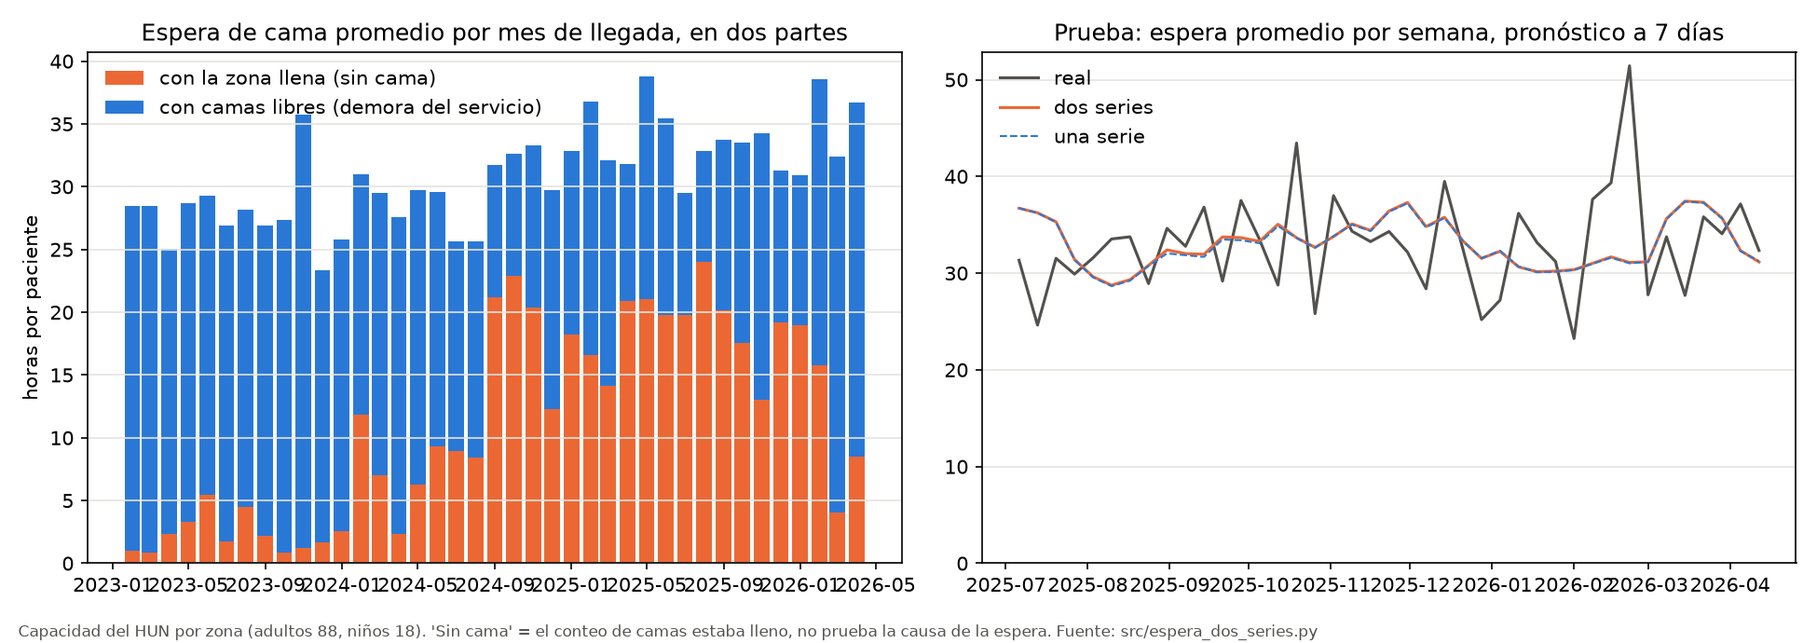
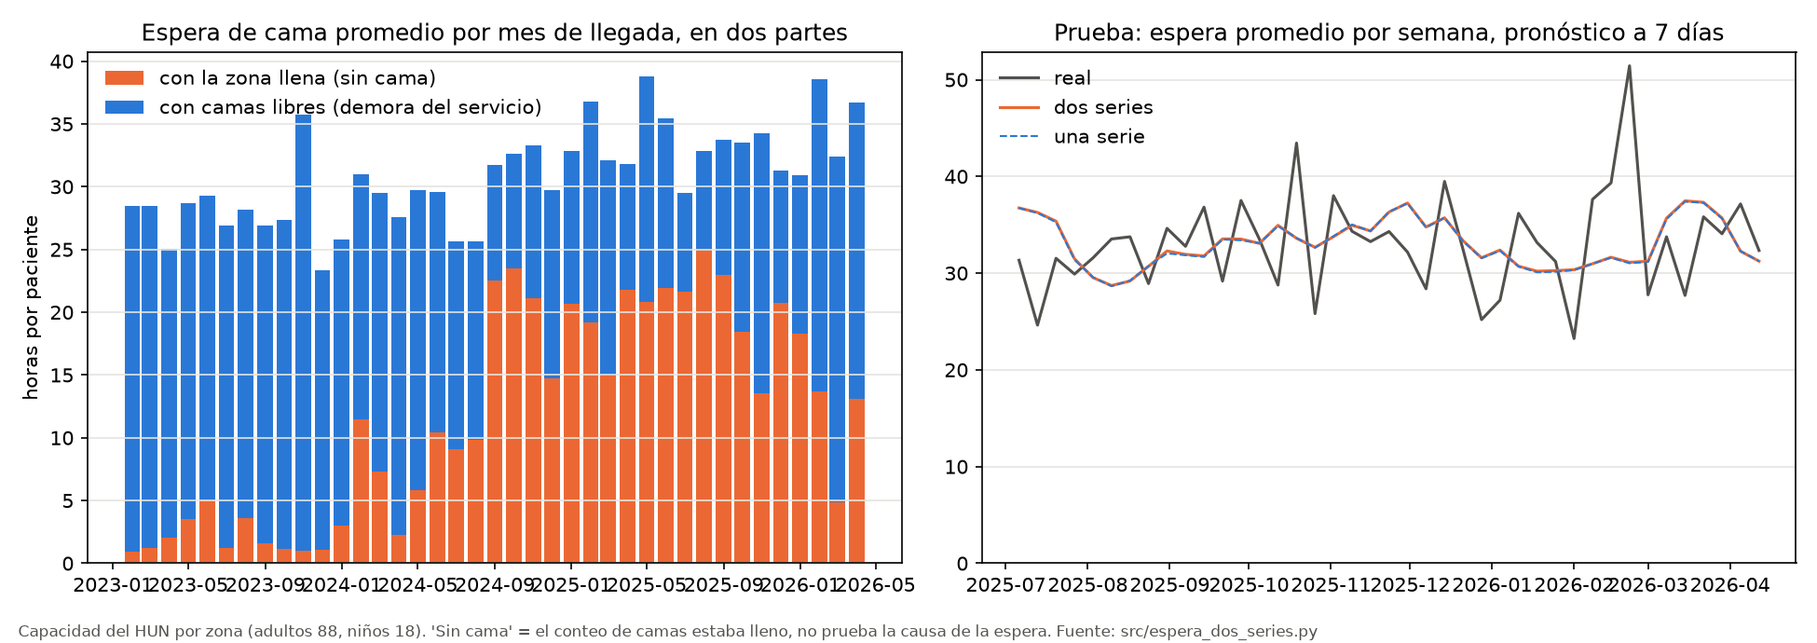
A6: recalcula todo con la persona real (P02 y P03)
Con la edad y el sexo de la persona real el estimador mejora: 8,9 % al llegar y 11,3 % a las 3 h reentrenado cada mes (antes 8,1 % y 10,3 %). Se actualizan todas las cifras, ejemplos y graficos de A6.

diff --git a/docs/estimador_tiempos.md b/docs/estimador_tiempos.md
@@ -1,18 +1,18 @@
-# A6 · Estimación del tiempo de espera de cama (7-nov-2026)
+# A6 · Estimación del tiempo de espera de cama (7 y 8-nov-2026)
 
 **Qué pide el instructivo (componente 3):** «modelos analíticos o predictivos que permitan estimar tiempos de atención». La pregunta concreta: **cuando un paciente espera cama, ¿cuánto le falta?**
 
 ## Resumen
 1. **La espera es individual.** Pacientes que llegan el mismo día o a la misma hora no esperan parecido. Por eso la ocupación del hospital o la cola casi no ayudan a estimarla, y lo que sirve es información de cada paciente.
 2. **El estimador es un modelo de tiempo restante.** Para un paciente que espera cama, da el rango de lo que le falta (percentiles 25, 50, 75 y 90) y la probabilidad de recibir cama en 6, 12 y 24 horas, y se recalcula a medida que pasa la espera. Usa el paciente, la hora del reloj, la ocupación, su historial de hospitalizaciones y su recorrido en urgencias, todo conocido en el momento. Se consulta con `estimar_tiempo_restante()`.
-3. **Funciona mejor que todo lo demás que probamos, pero el techo es bajo.** Reentrenado cada mes con más peso en lo reciente, que es como se debe usar porque el hospital cambió, mejora el rango 8,1 % al llegar y 9,8–10,3 % entre las 3 y las 6 horas de espera, frente a darle a todos el mismo rango. Sus percentiles aciertan en datos nuevos, y le gana con margen comprobado a las otras cinco alternativas.
+3. **Funciona mejor que todo lo demás que probamos, pero el techo es bajo.** Reentrenado cada mes con más peso en lo reciente, que es como se debe usar porque el hospital cambió, mejora el rango 8,9 % al llegar y 10,8–11,3 % entre las 3 y las 6 horas de espera, frente a darle a todos el mismo rango. Sus percentiles aciertan en datos nuevos, y le gana con margen comprobado a las otras cinco alternativas.
 4. **Lo que más decide cuándo llega la cama es la hora del reloj:** entre las 6 y las 12 h casi nadie recibe cama; las camas se asignan entre las 15 y las 17 h y entre las 20 y las 23 h.
 5. **Pensado para usarse cada día** (sección 3.2):
    - **Para el paciente:** responde en ventanas del día («esta tarde», «esta noche», «mañana en la tarde») con probabilidades que dicen la verdad.
-   - **Para la reunión de camas:** dice cuántos de los que esperan tendrán cama en 12 o 24 h, con un error en el mínimo que permite el azar y un rango que acierta el 86–88 % de los días.
+   - **Para la reunión de camas:** dice cuántos de los que esperan tendrán cama en 12 o 24 h, con un error en el mínimo que permite el azar y un rango que acierta el 87–88 % de los días.
    - **Para actuar antes:** a las 12 h de espera avisa quién seguirá sin cama a las 48 h.
    - **En el dashboard:** tiene su página (`dashboard/estimador.py`).
-6. **Lo que de verdad lo mejoraría es saber, al llegar, la gravedad y el servicio.** Los procedimientos de cada estancia muestran que el hospital da cama rápido a los graves (UCI: mediana 2,7 h) y hace esperar más a cirugía, urología y ortopedia (30–38 h). Si esa información se conociera al llegar, la mejora pasaría de 7,6 % a 15,8 %, y a 18,6 % sumando el diagnóstico (comparando modelos entrenados una sola vez). Es más que cualquier cambio de modelo, y es el argumento para registrar el triage y el servicio en la base.
+6. **Lo que de verdad lo mejoraría es saber, al llegar, la gravedad y el servicio.** Los procedimientos de cada estancia muestran que el hospital da cama rápido a los graves (UCI: mediana 2,7 h) y hace esperar más a cirugía, urología y ortopedia (30–38 h). Si esa información se conociera al llegar, la mejora pasaría de 8,4 % a 16,9 %, y a 20,0 % sumando el diagnóstico (comparando modelos entrenados una sola vez). Es más que cualquier cambio de modelo, y es el argumento para registrar el triage y el servicio en la base.
 
 ---
 
@@ -23,7 +23,7 @@ Se usan las estancias únicas del periodo confiable, del 1-feb-2023 al 9-abr-202
 
 **1.2 La hora del reloj manda.** Para un paciente que sigue esperando, la probabilidad de recibir cama en la hora siguiente es:
 - ~1 % entre las 6 y las 12 h;
-- 6–8 % entre las 15 y las 17 h;
+- 6–9 % entre las 15 y las 17 h;
 - 1 % a las 18 h;
 - 9–11 % entre las 20 y las 22 h.
 
@@ -70,7 +70,7 @@ Código: `src/estimador_tiempo_restante.py` (consulta) y `src/comparar_estimador
 
 **Un modelo por momento de la espera.** El recorrido cambia mientras el paciente espera. Por eso hay un modelo para cada momento (al llegar, a las 2, 4, 6 y 9 h), entrenado con quienes seguían esperando en ese momento y con lo que se sabía entonces. Esta técnica se llama «landmark». Desde las 12 h de espera el recorrido ya no suma, y se usa un solo modelo con el historial. El corte de 12 h se eligió mirando la prueba.
 
-**Qué no usa, y por qué.** No usa la cola de pacientes esperando cama: contarla exige saber quién se hospitalizará, y además no mejora nada (6,5 % con cola frente a 6,6 % sin ella al llegar).
+**Qué no usa, y por qué.** No usa la cola de pacientes esperando cama: contarla exige saber quién se hospitalizará, y además empeora la estimación (al llegar, 6,2 % con cola frente a 7,0 % sin ella).
 
 **Cómo se consulta.**
 ```python
@@ -90,37 +90,37 @@ estimar_tiempo_restante(edad=67, sexo="Mujer", tipo_visita="Urgencias", horas_es
 
 | Paciente | Faltan: p25 / mediana / p75 / p90 | Prob. de cama en 6 / 12 / 24 h |
 |---|---|---|
-| Mujer de 67 años, urgencias, recién llegada a las 9:00, sin historial | 11,5 / 32,5 / 60,2 / 91,8 h | 15 / 26 / 41 % |
-| La misma, con 2 hospitalizaciones previas (la última: 60 h de espera, 200 h de estancia) | 13,7 / 36,9 / 60,7 / 84,7 h | 7 / 18 / 32 % |
-| La misma sin historial, 6 h después: una etapa cerrada y una abierta | 14,4 / 31,7 / 59,7 / 102,9 h | 12 / 24 / 30 % |
-| La misma sin historial, 6 h después: tres etapas abiertas | 3,9 / 6,8 / 24,3 / 48,5 h | 41 / 70 / 74 % |
-| Niña de 8 años, urgencias, recién llegada a las 22:00 | 3,9 / 12,2 / 23,4 / 47,3 h | 34 / 50 / 77 % |
+| Mujer de 67 años, urgencias, recién llegada a las 9:00, sin historial | 11,8 / 34,4 / 60,6 / 104,2 h | 14 / 25 / 39 % |
+| La misma, con 2 hospitalizaciones previas (la última: 60 h de espera, 200 h de estancia) | 17,5 / 53,9 / 79,9 / 131,7 h | 7 / 16 / 27 % |
+| La misma sin historial, 6 h después: una etapa cerrada y una abierta | 15,7 / 31,7 / 59,3 / 102,9 h | 11 / 23 / 30 % |
+| La misma sin historial, 6 h después: tres etapas abiertas | 5,8 / 11,6 / 32,3 / 71,7 h | 27 / 50 / 58 % |
+| Niña de 8 años, urgencias, recién llegada a las 22:00 | 4,4 / 12,6 / 23,5 / 47,4 h | 33 / 48 / 76 % |
 
 ---
 
 ## 3. Qué tan bien funciona
 **La prueba.** Todo se entrenó con llegadas de feb-2023 a jun-2025 y se probó con las 5.430 estancias de jul-2025 a 9-abr-2026, que ningún modelo había visto. Se mide la **mejora frente al rango general** (darle a todos los mismos percentiles), con la pérdida de cuantiles, que es el error estándar para percentiles. Los intervalos del 95 % salen de un bootstrap por semanas (1.000 repeticiones), porque los pacientes de una misma semana se parecen entre sí.
 
-**Cómo mejora al sumar información** (lo que le falta a quien sigue esperando). Todos los modelos de esta tabla se entrenaron una sola vez, para compararlos en igualdad de condiciones. Reentrenado cada mes con más peso en lo reciente, el estimador final gana entre 0,5 y 0,8 puntos más (sección 3.1).
+**Cómo mejora al sumar información** (lo que le falta a quien sigue esperando). Todos los modelos de esta tabla se entrenaron una sola vez, para compararlos en igualdad de condiciones. Reentrenado cada mes con más peso en lo reciente, el estimador final gana entre 0,5 y 1,1 puntos más (sección 3.1).
 
 | Horas esperando | Tabla de perfiles | Modelo sin historial ni recorrido | + historial | **Estimador final** (IC 95 %) |
 |---|---|---|---|---|
-| 0 (al llegar) | 5,8 % | 6,7 % | 7,5 % | **7,6 % (6,7 a 8,5)** |
-| 3 h | 6,2 % | 7,4 % | 8,2 % | **9,5 % (8,6 a 10,4)** |
-| 6 h | 5,4 % | 7,0 % | 7,6 % | **9,2 % (8,4 a 10,1)** |
-| 12 h | 3,8 % | 6,1 % | 6,5 % | **6,5 % (5,2 a 7,6)** |
-| 24 h | 2,2 % | 5,0 % | 5,2 % | **5,2 % (3,5 a 6,7)** |
-| 48 h | −0,8 % | 1,8 % | 1,8 % | **1,8 % (0,1 a 3,3)** |
+| 0 (al llegar) | 6,4 % | 7,0 % | 8,0 % | **8,4 % (7,5 a 9,3)** |
+| 3 h | 7,1 % | 8,0 % | 8,7 % | **10,4 % (9,4 a 11,3)** |
+| 6 h | 6,2 % | 7,7 % | 8,3 % | **9,7 % (8,8 a 10,7)** |
+| 12 h | 4,1 % | 6,7 % | 7,1 % | **7,1 % (5,5 a 8,5)** |
+| 24 h | 2,6 % | 4,9 % | 5,3 % | **5,3 % (3,5 a 7,0)** |
+| 48 h | −1,3 % | 2,0 % | 1,5 % | **1,5 % (−0,5 a 3,3)** |
 
-**¿Aciertan los percentiles?** Lo ideal es que el 25 / 50 / 75 / 90 % de los casos nuevos quede por debajo de cada uno. Con el estimador final quedan 26,5 / 51,7 / 74,0 / 87,8 % al llegar y 25,9 / 49,3 / 71,9 / 87,2 % a las 6 h. El p90 queda algo corto (87–88 %) porque los peores casos siguen empeorando (`HALLAZGOS.md` 4.3); conviene leerlo como un piso.
+**¿Aciertan los percentiles?** Lo ideal es que el 25 / 50 / 75 / 90 % de los casos nuevos quede por debajo de cada uno. Con el estimador final quedan 26,5 / 51,8 / 74,2 / 87,7 % al llegar y 25,6 / 49,1 / 72,2 / 87,3 % a las 6 h. El p90 queda algo corto (87–88 %) porque los peores casos siguen empeorando (`HALLAZGOS.md` 4.3); conviene leerlo como un piso.
 
 **Cómo leerlo:**
-- **Contra la tabla de perfiles, la ventaja es real en todos los momentos:** el intervalo de la diferencia nunca incluye el 0 (+1,3 a +2,6 puntos al llegar; +3,3 a +4,9 a las 6 h).
-- **Contra el modelo de cuantiles al llegar,** que era el segundo mejor, la ventaja también es real: +0,8 a +1,8 puntos.
-- **El historial suma desde la llegada, y el recorrido en las primeras horas** (probado a las 3 y a las 6 h). Desde las 12 h, la espera depende de otras cosas.
+- **Contra la tabla de perfiles, la ventaja es real en todos los momentos:** el intervalo de la diferencia nunca incluye el 0 (+1,4 a +2,8 puntos al llegar; +3,0 a +4,7 a las 6 h).
+- **Contra el modelo de cuantiles al llegar,** que era el segundo mejor, la ventaja también es real: +0,8 a +2,1 puntos.
+- **El historial suma desde la llegada, y el recorrido en las primeras horas** (probado a las 3 y a las 6 h). Desde las 12 h, la espera depende de otras cosas; a las 48 h ningún método mejora con claridad al rango general.
 - **El techo es bajo:** el error de la mediana sigue siendo de unas 24 h al llegar.
 
-**Agosto y septiembre de 2025.** Según el equipo, el HUN tuvo sobredemanda porque los hospitales cercanos fueron intervenidos por el Estado y quedó como la única opción de la zona. En los datos se ve poco: un 6–7 % más de llegadas que en los mismos meses de 2024, con ingresos a cama y espera mediana normales. Evaluado aparte, el estimador mejora 7,2 % en esos meses y 7,7 % en el resto. El resultado se sostiene.
+**Agosto y septiembre de 2025.** Según el equipo, el HUN tuvo sobredemanda porque los hospitales cercanos fueron intervenidos por el Estado y quedó como la única opción de la zona. En los datos se ve poco: un 6–7 % más de llegadas que en los mismos meses de 2024, con ingresos a cama y espera mediana normales. Evaluado aparte, el estimador mejora 8,4 % en esos meses y 8,4 % en el resto. El resultado se sostiene.
 
 ### 3.1 ¿Sirve estimar el presente con datos de 2023 a 2025?
 Código: `src/ventana_entrenamiento.py`. El hospital cambió en el periodo: la mediana de la espera se mantuvo, pero los peores casos empeoraron.
@@ -136,21 +136,21 @@ Un modelo entrenado sobre todo con 2023 y 2024 aprende un hospital que ya no exi
 
 | Forma de entrenar | Al llegar | 3 h | 6 h | 12 h | 24 h |
 |---|---|---|---|---|---|
-| Todo feb-2023 a jun-2025 (modelo fijo) | 7,6 % | 9,5 % | 9,2 % | 6,5 % | 5,2 % |
-| Solo los últimos 12 meses | 7,7 % | 9,6 % | 9,5 % | 5,9 % | 4,7 % |
-| Solo los últimos 6 meses | 7,0 % | 9,1 % | 8,4 % | 6,6 % | 5,5 % |
-| Todo, con más peso en lo reciente (vida media de 6 meses) | 7,6 % | 9,6 % | 9,6 % | 6,6 % | 5,1 % |
-| Reentrenado cada mes con todo lo anterior | 8,0 % | 10,0 % | 9,5 % | 6,9 % | 5,8 % |
-| **Reentrenado cada mes, con más peso en lo reciente** | **8,1 %** | **10,3 %** | **9,8 %** | **7,0 %** | **5,9 %** |
+| Todo feb-2023 a jun-2025 (modelo fijo) | 8,4 % | 10,4 % | 9,7 % | 7,1 % | 5,3 % |
+| Solo los últimos 12 meses | 8,3 % | 10,3 % | 9,8 % | 6,3 % | 4,7 % |
+| Solo los últimos 6 meses | 8,4 % | 9,8 % | 9,2 % | 7,0 % | 5,9 % |
+| Todo, con más peso en lo reciente (vida media de 6 meses) | 8,6 % | 10,6 % | 9,9 % | 7,0 % | 5,3 % |
+| Reentrenado cada mes con todo lo anterior | 8,9 % | 10,9 % | 10,2 % | 7,5 % | 6,0 % |
+| **Reentrenado cada mes, con más peso en lo reciente** | **8,9 %** | **11,3 %** | **10,8 %** | **7,6 %** | **6,3 %** |
 
 En el reentrenamiento mensual, cada mes de la prueba se estimó con un modelo entrenado solo con lo que se sabía antes de empezar ese mes. Es decir, con las estancias que ya tenían cama y que llegaron al menos 14 días antes.
 
 **Lectura:**
-1. **Sí, entrenar con lo viejo era un problema, pero pequeño.** Reentrenar cada mes con más peso en lo reciente es lo mejor en todos los momentos: mejora entre 0,5 y 0,8 puntos frente al modelo fijo. La diferencia es real al llegar, a las 3 h y a las 6 h (el intervalo de la diferencia no incluye el 0: +0,1 a +1,0 % al llegar, +0,4 a +1,5 % a las 3 h). Además, el p90 acierta mejor: 88,9 % en vez de 87,8 % al llegar.
+1. **Sí, entrenar con lo viejo era un problema, pero pequeño.** Reentrenar cada mes con más peso en lo reciente es lo mejor en todos los momentos: mejora entre 0,5 y 1,1 puntos frente al modelo fijo. La diferencia es real a las 3, 6 y 24 h (el intervalo de la diferencia no incluye el 0: +0,3 a +1,6 % a las 3 h, +0,6 a +2,0 % a las 6 h) y queda en el límite al llegar (+0,0 a +1,1 %). Además, el p90 acierta mejor: 89,0 % en vez de 87,7 % al llegar.
 2. **Lo que más ayuda es incluir los meses nuevos.** Darle más peso a lo reciente sin reentrenar casi no cambia nada. Usar solo los últimos meses empeora, porque se pierden demasiados datos.
 3. **Por eso el estimador final se entrena con todo el historial y más peso en lo reciente,** y debe reentrenarse cada mes.
 
-**Edad y sexo corregidos.** Las cifras de esta sección ya usan la edad y el sexo de la persona real en las 14.126 estancias que trae `procedimientos_por_estancia.csv` (difieren de los nuestros en el 4 % de esas estancias en la edad y en el 2 % en el sexo). Con la corrección, los resultados prácticamente no cambian.
+**Edad y sexo de la persona real (8-nov).** Todas las cifras de este documento usan la tabla de episodios rehecha con `P02_persona_de_los_diagnosticos.csv` y `P03_persona_de_los_laboratorios.csv` (lote 4 de `src/auditoria_bd.py`, `CLAUDE.md` 4.10): la persona real se identificó en 16.384 estancias y el registro conservado es el suyo en el 99,6 % de ellas. Frente a la versión anterior, el 5,4 % de las estancias cambió de grupo de edad y el 3,2 % de sexo. La espera no cambia (mediana 18,5 h), pero **el estimador mejora**: al llegar pasa de 7,6 % a 8,4 % (modelo fijo) y a las 3 h de 9,5 % a 10,4 %. Tener los datos del paciente bien corregidos importa.
 
 ---
 
@@ -161,34 +161,34 @@ Código: `src/utilidad_estimador.py`. La precisión para un paciente tiene un te
 
 | | Al llegar | A las 6 h de espera |
 |---|---|---|
-| La ventana real está entre las 2 más probables | **45,5 %** (sin modelo: 36,9 %) | **43,3 %** (sin modelo: 34,3 %) |
-| La ventana con fecha más probable acierta | 25,7 % (sin modelo: 21,6 %) | 20,8 % (sin modelo: 17,4 %) |
-| Error de las probabilidades (Brier, menor es mejor) | 0,837 (sin modelo: 0,870; −3,8 %) | 0,838 (sin modelo: 0,875; −4,3 %) |
+| La ventana real está entre las 2 más probables | **45,5 %** (sin modelo: 36,9 %) | **44,0 %** (sin modelo: 34,3 %) |
+| La ventana con fecha más probable acierta | 26,2 % (sin modelo: 21,6 %) | 20,7 % (sin modelo: 17,4 %) |
+| Error de las probabilidades (Brier, menor es mejor) | 0,833 (sin modelo: 0,870; −4,2 %) | 0,835 (sin modelo: 0,875; −4,6 %) |
 
-«Sin modelo» es la distribución histórica de la ventana según la hora del reloj. Hay 12 ventanas posibles, así que acertar la exacta es difícil. Lo que más importa para comunicar es que las probabilidades **dicen la verdad**: cuando el estimador dice 7 %, pasa el 7 %; cuando dice 12 %, pasa el 11 %; cuando dice 24 %, pasa el 27 %. En las probabilidades más altas queda algo corto: dice 34 % y pasa el 42 %. El 14 % de los pacientes recibe la cama después de 3 días.
+«Sin modelo» es la distribución histórica de la ventana según la hora del reloj. Hay 12 ventanas posibles, así que acertar la exacta es difícil. Lo que más importa para comunicar es que las probabilidades **dicen la verdad**: cuando el estimador dice 7 %, pasa el 7 %; cuando dice 12 %, pasa el 11 %; cuando dice 24 %, pasa el 28 %. En las probabilidades más altas queda algo corto: dice 34 % y pasa el 42 %. El 14 % de los pacientes recibe la cama después de 3 días.
 
 **2. Para la reunión de camas: de los que esperan ahora, ¿cuántos tendrán cama en 12 o 24 horas?** Cada día a las 7:00 y a las 13:00, el estimador suma las probabilidades de los pacientes en espera.
 
 | Momento y plazo | En espera | Reciben cama | Error por día | Mínimo posible por azar | Sin modelo | Rango del 80 % acierta | Error por semana |
 |---|---|---|---|---|---|---|---|
-| 7:00, en 12 h | 23,6 | 5,1 | 1,9 | 1,9 | 2,1 | 85,8 % | 20,4 % |
-| 7:00, en 24 h | 23,6 | 10,5 | 2,6 | 2,6 | 2,8 | 85,5 % | 12,4 % |
-| 13:00, en 12 h | 28,9 | 11,6 | 2,6 | 2,7 | 2,7 | 87,6 % | 10,6 % |
-| 13:00, en 24 h | 28,9 | 12,9 | 2,7 | 2,9 | 2,8 | 87,6 % | 9,6 % |
+| 7:00, en 12 h | 23,6 | 5,1 | 1,8 | 1,9 | 2,1 | 87,9 % | 18,1 % |
+| 7:00, en 24 h | 23,6 | 10,5 | 2,6 | 2,6 | 2,8 | 87,2 % | 11,6 % |
+| 13:00, en 12 h | 28,9 | 11,6 | 2,6 | 2,7 | 2,7 | 88,3 % | 10,3 % |
+| 13:00, en 24 h | 28,9 | 12,9 | 2,7 | 2,9 | 2,8 | 87,9 % | 9,3 % |
 
-**El error está en el mínimo que permite el azar.** Cuántos pacientes reciben cama en unas horas es un conteo pequeño con ruido inevitable, como contar caras al lanzar monedas. El «mínimo posible» es el error que tendría hasta un estimador perfecto (distribución de Poisson), y el estimador lo alcanza. Por eso la referencia histórica, que es la cantidad en espera por la fracción que suele recibir cama a esa hora, queda casi igual. Lo útil es el **rango**: con la distribución de Poisson del estimado, el rango del 80 % acierta el 86–88 % de los días. Una banda que supusiera pacientes independientes acertaba solo el 64–73 %, porque las camas se asignan en tandas. Por semana el error baja a 10–20 %, pero el rango semanal queda algo angosto: acierta el 67–77 % de las semanas en vez del 80 %, porque hay semanas enteras más rápidas o más lentas.
+**El error está en el mínimo que permite el azar.** Cuántos pacientes reciben cama en unas horas es un conteo pequeño con ruido inevitable, como contar caras al lanzar monedas. El «mínimo posible» es el error que tendría hasta un estimador perfecto (distribución de Poisson), y el estimador lo alcanza. Por eso la referencia histórica, que es la cantidad en espera por la fracción que suele recibir cama a esa hora, queda casi igual. Lo útil es el **rango**: con la distribución de Poisson del estimado, el rango del 80 % acierta el 87–88 % de los días. Una banda que supusiera pacientes independientes acertaba solo el 64–73 %, porque las camas se asignan en tandas. Por semana el error baja a 9–18 %, pero el rango semanal queda algo angosto: acierta el 67–80 % de las semanas en vez del 80 %, porque hay semanas enteras más rápidas o más lentas.
 
-**3. Para actuar antes: ¿quién seguirá sin cama a las 48 h?** A las 12 h de espera, la probabilidad de seguir sin cama a las 48 h (AUC 0,67):
+**3. Para actuar antes: ¿quién seguirá sin cama a las 48 h?** A las 12 h de espera, la probabilidad de seguir sin cama a las 48 h (AUC 0,68):
 
 | Regla | Alertas por día | Acierta | Detecta |
 |---|---|---|---|
 | Sin modelo: todos los que llevan 12 h | 11,1 | 38,6 % | 100 % |
-| Probabilidad ≥ 30 % | 7,4 | 46,9 % | 81,1 % |
-| **Probabilidad ≥ 40 %** | **3,8** | **53,8 %** | 47,3 % |
-| Probabilidad ≥ 50 % | 0,9 | 59,4 % | 12,3 % |
+| Probabilidad ≥ 30 % | 7,0 | 48,2 % | 79,5 % |
+| **Probabilidad ≥ 40 %** | **4,1** | **53,6 %** | 51,7 % |
+| Probabilidad ≥ 50 % | 1,3 | 59,5 % | 17,9 % |
 | Sin modelo: todos los que llevan 24 h (12 h más tarde) | 8,1 | 52,9 % | 100 % |
 
-**Lectura:** con un corte de 40 %, el estimador da 3,8 alertas diarias a las 12 h y acierta tanto como esperar a las 24 h y alertar a todos (54 % frente a 53 %), pero con **12 horas más de margen** y la mitad de alertas. A cambio, detecta solo la mitad de los que terminarán esperando más de 48 h. Complementa la alerta C de `src/alertas.py` (a las 48 h de espera), que avisa más tarde y acierta más.
+**Lectura:** con un corte de 40 %, el estimador da 4,1 alertas diarias a las 12 h y acierta tanto como esperar a las 24 h y alertar a todos (54 % frente a 53 %), pero con **12 horas más de margen** y la mitad de alertas. A cambio, detecta solo a la mitad (52 %) de los que terminarán esperando más de 48 h. Complementa la alerta C de `src/alertas.py` (a las 48 h de espera), que avisa más tarde y acierta más.
 
 **4. En el dashboard.** `dashboard/estimador.py` reúne todo en una página. Se describe al paciente (edad, sexo, tipo de visita, horas de espera y, si se sabe, su hospitalización anterior y sus etapas en urgencias) y muestra:
 - la ventana más probable y el gráfico de ventanas con la acumulada;
@@ -206,28 +206,28 @@ Código: `src/procedimientos_escenario.py` (procedimientos) y `src/triage_aproxi
 
 | Horas esperando | Sin procedimientos | + gravedad | + servicio | + gravedad y servicio | + diagnóstico | **+ todo** |
 |---|---|---|---|---|---|---|
-| Al llegar | 7,6 % | 11,7 % | 11,5 % | 15,8 % | 12,5 % | **18,6 % (17,5 a 19,8)** |
-| 3 h | 9,5 % | 12,0 % | 13,0 % | 15,0 % | 12,3 % | **16,9 %** |
-| 6 h | 9,2 % | 11,2 % | 11,9 % | 13,6 % | 12,1 % | **15,3 %** |
-| 12 h | 6,5 % | 9,1 % | 8,9 % | 11,2 % | 9,4 % | **12,3 %** |
-| 24 h | 5,2 % | 8,1 % | 7,1 % | 9,6 % | 7,3 % | **9,4 %** |
+| Al llegar | 8,4 % | 12,8 % | 12,7 % | 16,9 % | 14,1 % | **20,0 % (18,8 a 21,1)** |
+| 3 h | 10,4 % | 12,9 % | 13,7 % | 15,9 % | 13,4 % | **17,9 %** |
+| 6 h | 9,7 % | 11,9 % | 12,8 % | 14,5 % | 12,6 % | **16,1 %** |
+| 12 h | 7,1 % | 9,8 % | 10,2 % | 12,1 % | 9,8 % | **14,5 %** |
+| 24 h | 5,3 % | 8,5 % | 7,5 % | 9,9 % | 7,1 % | **11,5 %** |
 
 **Los otros modelos con la misma información, al llegar:**
-- **Modelo de cuantiles:** pasa de 6,4 % a 15,1 % con gravedad y servicio.
-- **Tabla de perfiles:** pasa de 5,8 % a 8,5 % agregando el servicio como primera dimensión.
+- **Modelo de cuantiles:** pasa de 7,1 % a 16,1 % con gravedad y servicio.
+- **Tabla de perfiles:** pasa de 6,4 % a 9,1 % agregando el servicio como primera dimensión.
 
-En todos los casos los percentiles siguen bien calibrados (al llegar, con todo: 25,4 / 50,2 / 72,8 % debajo de p25 / p50 / p75).
+En todos los casos los percentiles siguen bien calibrados (al llegar, con todo: 24,8 / 49,7 / 72,9 % debajo de p25 / p50 / p75).
 
 **Qué significa:**
-1. **La gravedad y el servicio son la información que faltaba.** Juntos duplican la mejora al llegar (de 7,6 % a 15,8 %), y con el diagnóstico la llevan a 18,6 %. Ningún cambio de modelo se acercó a eso. El error de la mediana baja de 23,8 h a 21,1 h.
+1. **La gravedad y el servicio son la información que faltaba.** Juntos duplican la mejora al llegar (de 8,4 % a 16,9 %), y con el diagnóstico la llevan a 20,0 %. Ningún cambio de modelo se acercó a eso. El error de la mediana baja de 23,7 h a 20,8 h.
 2. **Gravedad y servicio aportan cosas distintas,** porque juntos suman más que cada uno por separado. La gravedad dice quién recibe cama rápido (UCI); el servicio dice quién espera más (cirugía, urología, ortopedia).
 3. **Un triage real debería servir todavía más,** porque se registra al llegar y no tiene el ruido de los procedimientos sin fecha.
-4. **Los laboratorios tempranos casi no ayudan** (−0,1 a +0,7 puntos, `src/triage_aproximado.py`).
+4. **Los laboratorios tempranos casi no ayudan** (−0,3 a +0,4 puntos, `src/triage_aproximado.py`).
 
 **Para la recomendación R1** (`docs/recomendaciones.md`): **registrar en la base el nivel de triage y el servicio que recibirá al paciente**, con su hora. Con esos dos datos, la estimación de la espera de cada paciente podría mejorar alrededor del doble.
 
 **Otros pendientes:**
-- **Corrección completa de edad y sexo:** con `procedimientos_por_estancia.csv` ya se corrigieron las 14.126 estancias que trae (55 %). Para el resto, pedir a Daniela `P02_persona_de_los_diagnosticos.csv` y `P03_persona_de_los_laboratorios.csv`.
+- **Datos con hora durante la espera:** pedir a Daniela los laboratorios y los diagnósticos registrados antes de la cama, con su hora, para usarlos como señales en tiempo real.
 - **Dashboard:** la página ya existe (`dashboard/estimador.py`), pero como una app aparte (puerto 8051). Falta integrarla al menú del dashboard (`docs/estructura_dashboard.md` todavía no la tiene) y decidir con Daniela si los modelos guardados pueden publicarse: contienen los cortes de los árboles, no filas de pacientes, pero salen de datos clínicos.
 
 ---
@@ -236,15 +236,15 @@ En todos los casos los percentiles siguen bien calibrados (al llegar, con todo: 
 
 | Alternativa | Resultado | Por qué se descartó |
 |---|---|---|
-| Tabla de perfiles (`src/estimador_tiempos.py`): rango por bloque de 3 h, edad, tipo de visita y sexo | 5,8 % al llegar; −0,9 % a las 48 h | Peor que el estimador final en todos los momentos. Se conserva porque cubre otras medidas: probabilidad de hospitalizarse (9,6 %, AUC 0,62, bien calibrada), estancia en cama (mediana 69,5 h) y urgencias sin hospitalizar (Kaplan-Meier, mediana 11,2 h) |
-| Modelo de cuantiles al llegar (M2) | 6,3 % al llegar | Solo estima al llegar y queda por debajo del estimador final |
-| Cola en orden de llegada (M3b) | −17,9 % | El orden de llegada casi no predice el orden de cama (`CLAUDE.md` 6b) |
-| Cola en orden aleatorio (M3a) | −0,3 % | La cola casi no cambia la espera |
-| Espera en dos series: con la zona llena («sin cama») y con camas libres («demora del servicio») (`src/espera_dos_series.py`) | No mejora el pronóstico frente a una sola serie (~4,5 h de error semanal) | Es frágil: con las camas del HUN, la parte sin cama pasa del 8 % (2023) al 56 % (2025), pero con un 10 % más de camas queda en 5–10 %. Queda como lectura descriptiva |
-| Visitas previas a urgencias, congestión de urgencias al llegar y calendario (festivo, día no hábil, mes) (`src/variables_descartadas.py`) | De −0,3 a +0,5 puntos sobre el estimador final; ningún intervalo excluye el 0 | No aportan: el estimador ya captura lo útil de estos datos |
+| Tabla de perfiles (`src/estimador_tiempos.py`): rango por bloque de 3 h, edad, tipo de visita y sexo | 6,4 % al llegar; −1,3 % a las 48 h | Peor que el estimador final en todos los momentos. Se conserva porque cubre otras medidas: probabilidad de hospitalizarse (9,6 %, AUC 0,62, bien calibrada), estancia en cama (mediana 69,5 h) y urgencias sin hospitalizar (Kaplan-Meier, mediana 11,2 h) |
+| Modelo de cuantiles al llegar (M2) | 7,1 % al llegar | Solo estima al llegar y queda por debajo del estimador final |
+| Cola en orden de llegada (M3b) | −17,2 % | El orden de llegada casi no predice el orden de cama (`CLAUDE.md` 6b) |
+| Cola en orden aleatorio (M3a) | 0,4 % | La cola casi no cambia la espera |
+| Espera en dos series: con la zona llena («sin cama») y con camas libres («demora del servicio») (`src/espera_dos_series.py`) | No mejora el pronóstico frente a una sola serie (~4,5 h de error semanal) | Es frágil: con las camas del HUN, la parte sin cama pasa del 7 % (2023) al 61 % (2025), pero con un 10 % más de camas queda en 4–9 %. Queda como lectura descriptiva |
+| Visitas previas a urgencias, congestión de urgencias al llegar y calendario (festivo, día no hábil, mes) (`src/variables_descartadas.py`) | De −0,5 a +0,5 puntos sobre el estimador final; ningún intervalo excluye el 0 | No aportan: el estimador ya captura lo útil de estos datos |
 | Hora del primer diagnóstico como señal en tiempo real | Coincide con la llegada en la mitad de los casos y en el 10 % es semanas antes (visitas copia) | No marca un momento real; se descartó sin probar |
-| Laboratorios de las primeras 6 h como aproximación a la gravedad | −0,1 a +0,7 puntos | Casi no ayudan |
-| Entrenar solo con los últimos 6 o 12 meses | 7,0 % y 7,7 % al llegar | Se pierden datos; es mejor usar todo el historial con más peso en lo reciente y reentrenar cada mes (sección 3.1) |
+| Laboratorios de las primeras 6 h como aproximación a la gravedad | −0,3 a +0,4 puntos | Casi no ayudan |
+| Entrenar solo con los últimos 6 o 12 meses | 8,4 % y 8,3 % al llegar, y peor en las demás horas | Se pierden datos; es mejor usar todo el historial con más peso en lo reciente y reentrenar cada mes (sección 3.1) |
 | Efecto del día o de la hora de llegada | 0,1 % a 2,3 % más allá del azar | La espera es individual |
 | Hora del primer diagnóstico como momento de la decisión de hospitalizar | Casi siempre coincide con la llegada | No marca la decisión |
 
@@ -255,7 +255,7 @@ En todos los casos los percentiles siguen bien calibrados (al llegar, con todo: 
 - **La espera termina en la asignación administrativa.** Mezcla la atención clínica en urgencias con la espera de cama, y no se pueden separar.
 - **Cama o silla:** según el equipo, a muchos pacientes se les atiende en sillas aunque necesiten una cama, y no se sabe si eso se registra como estar en cama. La base no tiene columna de cama, silla, piso ni servicio (`CLAUDE.md` 4.8). Si se registra, la espera real hasta una cama sería más larga, la falta de camas mayor de lo que muestran los datos y la ocupación incluiría puestos que no son camas (lo que explicaría que pase de las 106 camas el 42 % de las horas de 2025).
 - **El recorrido supone que el sistema registra cada etapa cuando empieza.** No se pudo comprobar. Si las etapas se cargan después, el recorrido no estaría disponible en tiempo real.
-- **Edad y sexo de las estancias duplicadas:** se corrigieron con la persona real en las 14.126 estancias de `procedimientos_por_estancia.csv` (55 %). En el resto se conservó el registro con más información, que es el de la persona real en ~81–85 % de los casos (`CLAUDE.md` 4.10). El historial, que se busca por persona, tiene la misma limitación.
+- **Edad y sexo de las estancias duplicadas:** corregidos con la persona real (P02 y P03); en las pocas estancias duplicadas donde no se pudo identificar, se conserva el registro con más información (`CLAUDE.md` 4.10).
 - **La ocupación hacia adelante se deja fija** en el último valor conocido.
 - **Asociación, no causa.**
 
@@ -266,10 +266,10 @@ Los datos viven fuera del proyecto. Se indican con tres variables (en Bash). `HU
 ```bash
 export HUN_PROCESADOS="D:/Descargas D/Datos/procesados" HUN_TABLAS="D:/Descargas D/Datos/procesados/tablas" HUN_CRUDOS="D:/Descargas D/Datos"
 ```
-1. **Tabla de episodios:** `src/analisis_etapas.py` y `src/preparar_variables.py`, con los CSV de la base en `datos/crudos/`. Copiarlos ahí solo mientras corren y mover luego `datos/procesados/` a la carpeta externa.
+1. **Tabla de episodios:** `src/analisis_etapas.py` y `src/preparar_variables.py`, con los CSV de la base en `datos/crudos/` y `P02_persona_de_los_diagnosticos.csv` y `P03_persona_de_los_laboratorios.csv` en `datos/crudos/auditoria_bd/`. Copiarlos ahí solo mientras corren y mover luego `datos/procesados/` a la carpeta externa.
 2. **Utilidad (ventanas, censo y alerta):** `python3 src/utilidad_estimador.py` (~10 min). Escribe `utilidad_*.csv` en `HUN_TABLAS` y `resultados/graficos/utilidad_estimador.png`.
 3. **Construcción y prueba del estimador:** `python3 src/comparar_estimadores.py` (~1,5 min). Escribe `comparacion_estimadores_*.csv` en `HUN_TABLAS` y `resultados/graficos/comparacion_estimadores.png`. Las formas de entrenar (sección 3.1): `python3 src/ventana_entrenamiento.py` (~10 min).
 4. **Escenarios de gravedad y servicio:** `python3 src/procedimientos_escenario.py` (~4 min; necesita `procedimientos_por_estancia.csv` en `HUN_CRUDOS`) y `python3 src/triage_aproximado.py` (laboratorios).
-5. **Alternativas:** `python3 src/estimador_tiempos.py` (tabla de perfiles) y `python3 src/espera_dos_series.py` (dos series).
+5. **Alternativas:** `python3 src/estimador_tiempos.py` (tabla de perfiles), `python3 src/espera_dos_series.py` (dos series) y `python3 src/variables_descartadas.py` (datos que no aportan).
 6. **Consulta:** `python3 src/estimador_tiempo_restante.py 67 Mujer Urgencias 6 "2026-03-04 15:00"`. Sin argumentos muestra los ejemplos de la sección 2.
 7. **Página del dashboard:** `python3 dashboard/estimador.py` y abrir http://127.0.0.1:8051.

diff --git a/docs/HALLAZGOS.md b/docs/HALLAZGOS.md
@@ -213,14 +213,14 @@ de las llegadas pronosticadas; factores externos (clima, dengue, eventos).
 ### 5.4 Estimación de la espera de cada paciente (A6, `docs/estimador_tiempos.md`)
 - **La espera es individual:** los pacientes que llegan el mismo día no esperan parecido (el día explica un 0,1 % más allá del azar). La ocupación y la cola casi no ayudan.
 - **Estimador: modelo de tiempo restante** (`src/estimador_tiempo_restante.py`). Da el rango de lo que le falta a un paciente que espera cama y la probabilidad de recibirla en 6, 12 y 24 h. Usa el paciente, la hora del reloj, la ocupación, su historial (la espera se repite: Spearman 0,34 con la hospitalización anterior) y su recorrido en urgencias, con un modelo por momento de la espera.
-- **Prueba** (entrenamiento feb-2023 a jun-2025, prueba jul-2025 a 9-abr-2026, 5.430 estancias): mejora 7,6 % al llegar (IC 95 % 6,7 a 8,5) y 9,2–9,5 % a las 3–6 h frente a dar el mismo rango a todos; los percentiles aciertan (26,3 / 51,4 / 73,8 / 87,7 % debajo de p25 / p50 / p75 / p90). Le gana con margen comprobado a la tabla de perfiles, a un modelo de cuantiles y a dos modelos de cola. Agosto y septiembre de 2025 (sobredemanda, dato del equipo) dan el mismo resultado.
-- **Gravedad y servicio (procedimientos de cada estancia, sin fecha):** el hospital da cama rápido a los graves (UCI: mediana 2,7 h) y hace esperar más a urología (37,7 h), ortopedia (32,8 h) y cirugía general (29,6 h). Si al llegar se supieran la gravedad y el servicio, la mejora pasaría de 7,6 % a 15,8 % (18,6 % sumando el diagnóstico; escenario optimista). **Registrar el triage y el servicio** es la mejora de datos que más ayudaría.
+- **Prueba** (entrenamiento feb-2023 a jun-2025, prueba jul-2025 a 9-abr-2026, 5.430 estancias): mejora 8,4 % al llegar (IC 95 % 7,5 a 9,3) y 9,7–10,4 % a las 3–6 h frente a dar el mismo rango a todos; los percentiles aciertan (26,5 / 51,8 / 74,2 / 87,7 % debajo de p25 / p50 / p75 / p90). Cifras con la edad y el sexo de la persona real (P02 y P03, 8-nov). Le gana con margen comprobado a la tabla de perfiles, a un modelo de cuantiles y a dos modelos de cola. Agosto y septiembre de 2025 (sobredemanda, dato del equipo) dan el mismo resultado.
+- **Gravedad y servicio (procedimientos de cada estancia, sin fecha):** el hospital da cama rápido a los graves (UCI: mediana 2,7 h) y hace esperar más a urología (37,7 h), ortopedia (32,8 h) y cirugía general (29,6 h). Si al llegar se supieran la gravedad y el servicio, la mejora pasaría de 8,4 % a 16,9 % (20,0 % sumando el diagnóstico; escenario optimista). **Registrar el triage y el servicio** es la mejora de datos que más ayudaría.
 - **La hora del reloj manda:** el 24 % de las camas se asigna entre las 15 y las 17 h y el 37 % entre las 20 y las 23 h; entre las 6 y las 12 h casi nadie recibe cama.
-- **El hospital cambió** (p90 de la espera de 61 a 81 h entre 2023 y 2026): reentrenar cada mes con más peso en lo reciente mejora la estimación en todos los momentos (8,1 % al llegar, 10,3 % a las 3 h; la diferencia con el modelo fijo es real hasta las 6 h). El estimador final se entrena así (`src/ventana_entrenamiento.py`).
+- **El hospital cambió** (p90 de la espera de 61 a 81 h entre 2023 y 2026): reentrenar cada mes con más peso en lo reciente mejora la estimación en todos los momentos (8,9 % al llegar, 11,3 % a las 3 h y 10,8 % a las 6 h; la diferencia con el modelo fijo es real a las 3, 6 y 24 h). El estimador final se entrena así (`src/ventana_entrenamiento.py`).
 - **Uso diario** (`src/utilidad_estimador.py`, página `dashboard/estimador.py`):
   - Responde en ventanas del día con probabilidades calibradas: la ventana real está entre las 2 más probables en el 46 % de los pacientes, frente a 37 % sin modelo.
-  - Para la reunión de camas dice cuántos de los que esperan tendrán cama en 12 o 24 h, con un error en el mínimo que permite el azar y un rango que acierta el 86–88 % de los días.
-  - A las 12 h de espera avisa quién seguirá sin cama a las 48 h: 3,8 alertas por día que aciertan en el 54 %, igual que esperar a las 24 h pero con 12 h más de margen.
+  - Para la reunión de camas dice cuántos de los que esperan tendrán cama en 12 o 24 h, con un error en el mínimo que permite el azar y un rango que acierta el 87–88 % de los días.
+  - A las 12 h de espera avisa quién seguirá sin cama a las 48 h: 4,1 alertas por día que aciertan en el 54 %, igual que esperar a las 24 h pero con 12 h más de margen.
 
 ---
 

diff --git a/docs/pendientes_y_reparto.md b/docs/pendientes_y_reparto.md
@@ -102,7 +102,7 @@ demanda, alertas, días atípicos, borrador de recomendaciones y un repositorio 
 - **Ojo:** la ocupación observada debe salir de estancias únicas (~100 camas), no de `serie_horaria.csv` viejo.
 
 ### A6. Estimar tiempos de atención (componente 3) · **Samuel** — **HECHA el 7-nov-2026** (`docs/estimador_tiempos.md`; función de consulta `src/estimador_tiempo_restante.py`)
-- **Resultado:** la espera de cama es individual (no depende del momento de llegada). Estimador: modelo de tiempo restante con el paciente, la hora del reloj, la ocupación, su historial y su recorrido en urgencias; mejora 7,6 % al llegar y 9,2–9,5 % a las 3–6 h (IC comprobados) frente al rango general, con percentiles calibrados, y le gana a las otras cinco alternativas. Techo bajo (error de la mediana ~24 h). Con los procedimientos de Daniela (7-nov): edad y sexo corregidos en el 55 % de las estancias; el hospital da cama rápido a los graves (UCI 2,7 h) y hace esperar a urología, ortopedia y cirugía (30–38 h); si al llegar se supieran la gravedad y el servicio, la mejora llegaría a 15,8 % (18,6 % con el diagnóstico), argumento para registrar el triage y el servicio. El hospital cambió: reentrenar cada mes con más peso en lo reciente lleva la mejora a 8,1 % al llegar y 10,3 % a las 3 h; el estimador final se entrena así y debe reentrenarse cada mes. Uso diario (8-nov): respuesta en ventanas del día con probabilidades calibradas, censo para la reunión de camas con error en el mínimo que permite el azar, alerta a las 12 h y página `dashboard/estimador.py`. Los datos locales que quedaban (visitas previas a urgencias, congestión, calendario) no aportan (8-nov). Para subir la precisión hacen falta datos nuevos: laboratorios y diagnósticos con su hora durante la espera (consultas a la base), y del hospital el triage, la orden de hospitalización y el servicio. Pendiente: P02 y P03 para el resto de las estancias e integrar la página al menú del dashboard.
+- **Resultado:** la espera de cama es individual (no depende del momento de llegada). Estimador: modelo de tiempo restante con el paciente, la hora del reloj, la ocupación, su historial y su recorrido en urgencias; mejora 8,4 % al llegar y 9,7–10,4 % a las 3–6 h (IC comprobados) frente al rango general, con percentiles calibrados, y le gana a las otras cinco alternativas. Techo bajo (error de la mediana ~24 h). Con los procedimientos de Daniela (7-nov) y P02 y P03 (8-nov): edad y sexo de la persona real en todas las estancias identificadas, lo que sube la mejora; el hospital da cama rápido a los graves (UCI 2,7 h) y hace esperar a urología, ortopedia y cirugía (30–38 h); si al llegar se supieran la gravedad y el servicio, la mejora llegaría a 16,9 % (20,0 % con el diagnóstico), argumento para registrar el triage y el servicio. El hospital cambió: reentrenar cada mes con más peso en lo reciente lleva la mejora a 8,9 % al llegar y 11,3 % a las 3 h; el estimador final se entrena así y debe reentrenarse cada mes. Uso diario (8-nov): respuesta en ventanas del día con probabilidades calibradas, censo para la reunión de camas con error en el mínimo que permite el azar, alerta a las 12 h y página `dashboard/estimador.py`. Los datos locales que quedaban (visitas previas a urgencias, congestión, calendario) no aportan (8-nov). Para subir la precisión hacen falta datos nuevos: laboratorios y diagnósticos con su hora durante la espera (consultas a la base), y del hospital el triage, la orden de hospitalización y el servicio. Pendiente: integrar la página al menú del dashboard.
 - **Qué pide el instructivo:** "modelos analíticos o predictivos que permitan estimar tiempos de atención". Es decir: cuando llega un paciente, ¿cuántas horas va a estar
   en urgencias, cuánto va a esperar cama o cuánto se va a quedar hospitalizado?
 - **Dónde estamos:** por paciente no se logra (esperar más de 24 h: AUC 0,60; estancia: R² cercano a 0; duración de urgencias de quien se va de alta: solo el 38 % tiene

diff --git a/CLAUDE.md b/CLAUDE.md
@@ -679,7 +679,7 @@ escenarios y supuestos escritos y se declara como limitación en el documento fi
 | Sistema repetible de diagnóstico de cuellos de botella | **Hecho** (`src/diagnostico_cuello_botella.py`, `docs/diagnostico_cuello_botella.md`); falta sumarle Monte Carlo (A5) | A7 |
 | Dashboard de Power BI (**va de último**, datos parciales; guía para su Claude en `powerbi/CLAUDE.md`) y verificar fuentes de las recomendaciones | B2 (verificar fuentes de las recomendaciones) **hecha** (PR #1 de Samuel, mergeado el 8-nov-2026; falta recalcular las ~11 horas-paciente de R6 y la alerta de ocupación de R3). B1 (dashboard) pendiente | B1 y B2 |
 | `mapeo_dx.csv` (grupos de diagnóstico) y tiempos por diagnóstico | **Hecho como borrador** (falta validación clínica); `docs/diagnosticos_y_tiempos.md` | A3 |
-| Estimar tiempos de atención (componente 3) | **Hecho el 7-nov** (`docs/estimador_tiempos.md`): la espera es individual; modelo de tiempo restante con historial y recorrido en urgencias, reentrenado cada mes con más peso en lo reciente (8,1 % de mejora al llegar, 10,3 % a las 3 h); salidas de uso diario (ventanas del día, censo para la reunión de camas, alerta a las 12 h) en `src/utilidad_estimador.py` y página `dashboard/estimador.py`; función de consulta `src/estimador_tiempo_restante.py` | A6 |
+| Estimar tiempos de atención (componente 3) | **Hecho el 7-nov** (`docs/estimador_tiempos.md`): la espera es individual; modelo de tiempo restante con historial y recorrido en urgencias, reentrenado cada mes con más peso en lo reciente (8,9 % de mejora al llegar, 11,3 % a las 3 h, con la persona real de P02 y P03); salidas de uso diario (ventanas del día, censo para la reunión de camas, alerta a las 12 h) en `src/utilidad_estimador.py` y página `dashboard/estimador.py`; función de consulta `src/estimador_tiempo_restante.py` | A6 |
 | README y reproducibilidad desde cero | README y `requirements.txt` hechos; falta probar desde cero con alguien que no tiene los datos | `README.md` |
 | Documento final y presentación | Pendiente (plazo: fin de noviembre de 2026) | — |
 | Sesión de preguntas con el HUN | **Por agendar**: el correo no tuvo respuesta; preguntas listas | `docs/hun/sesion_de_preguntas.md`, sección 8 |
